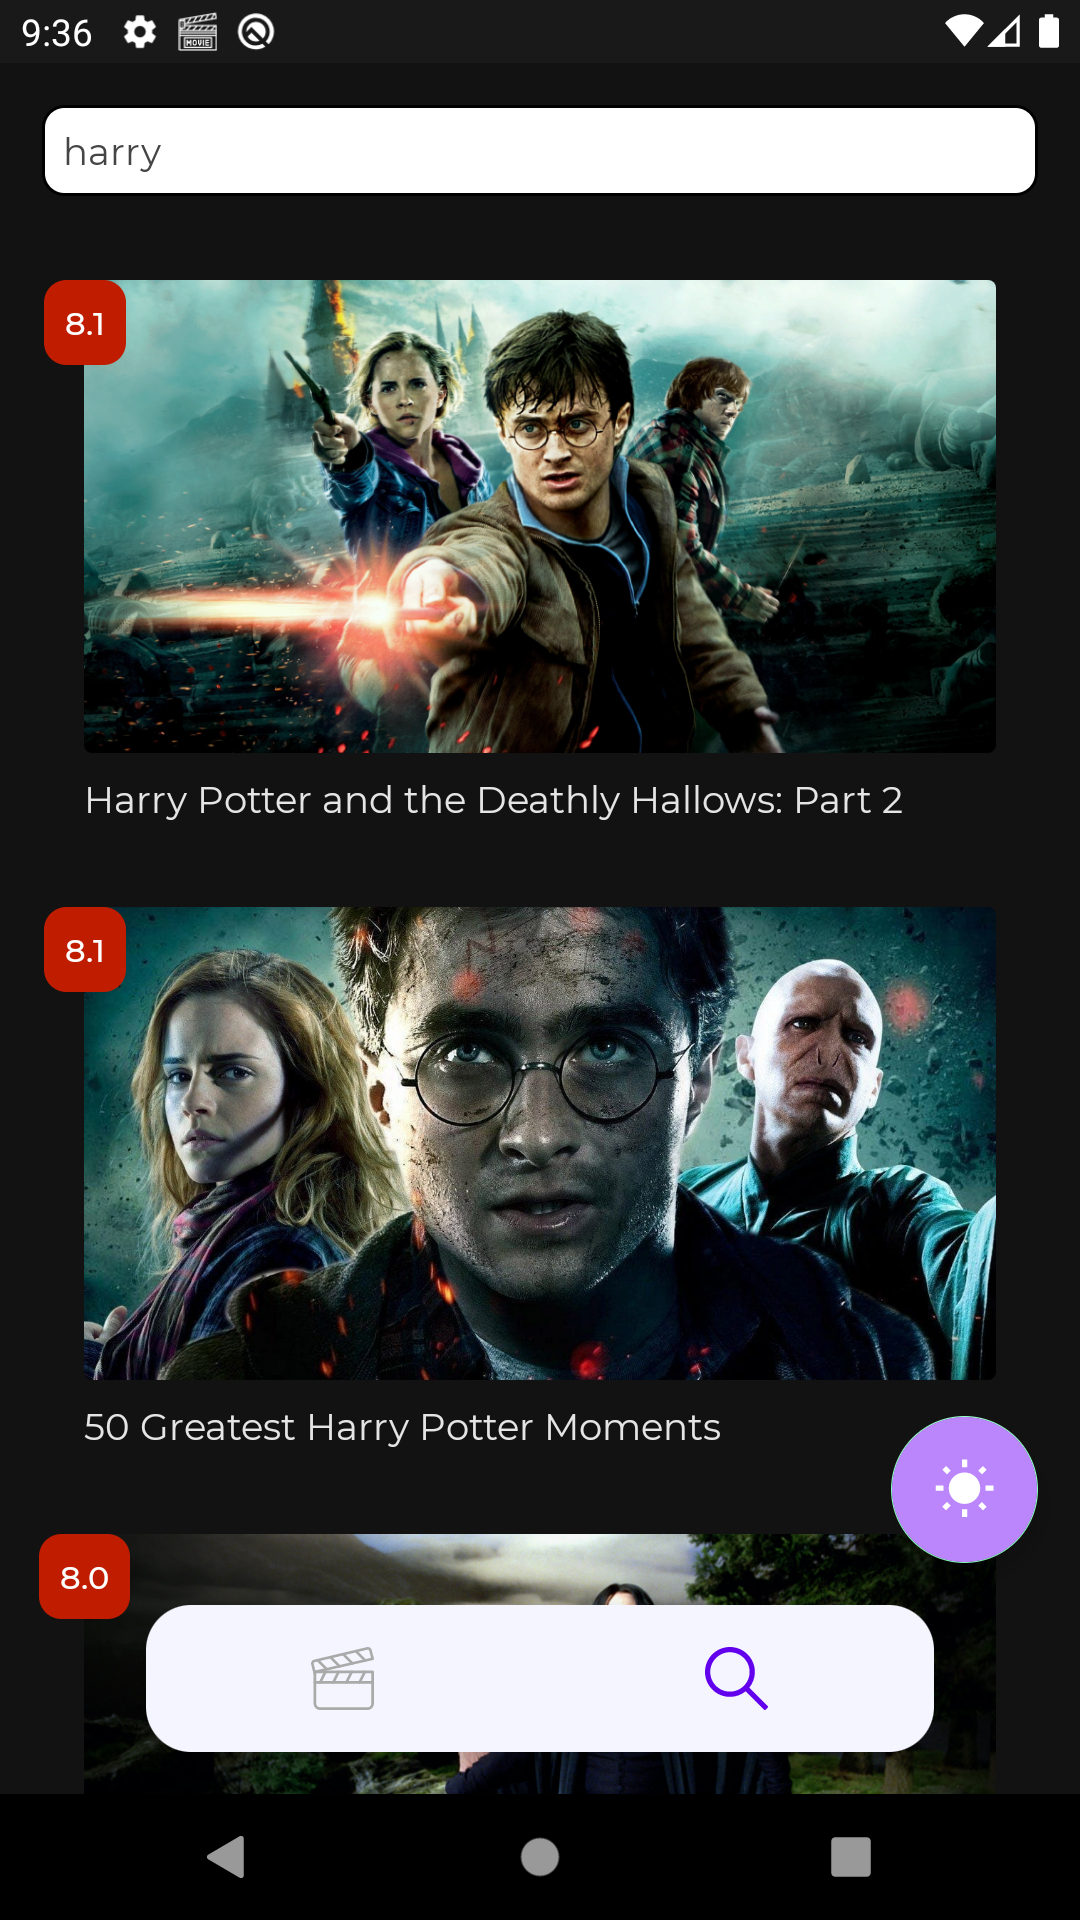
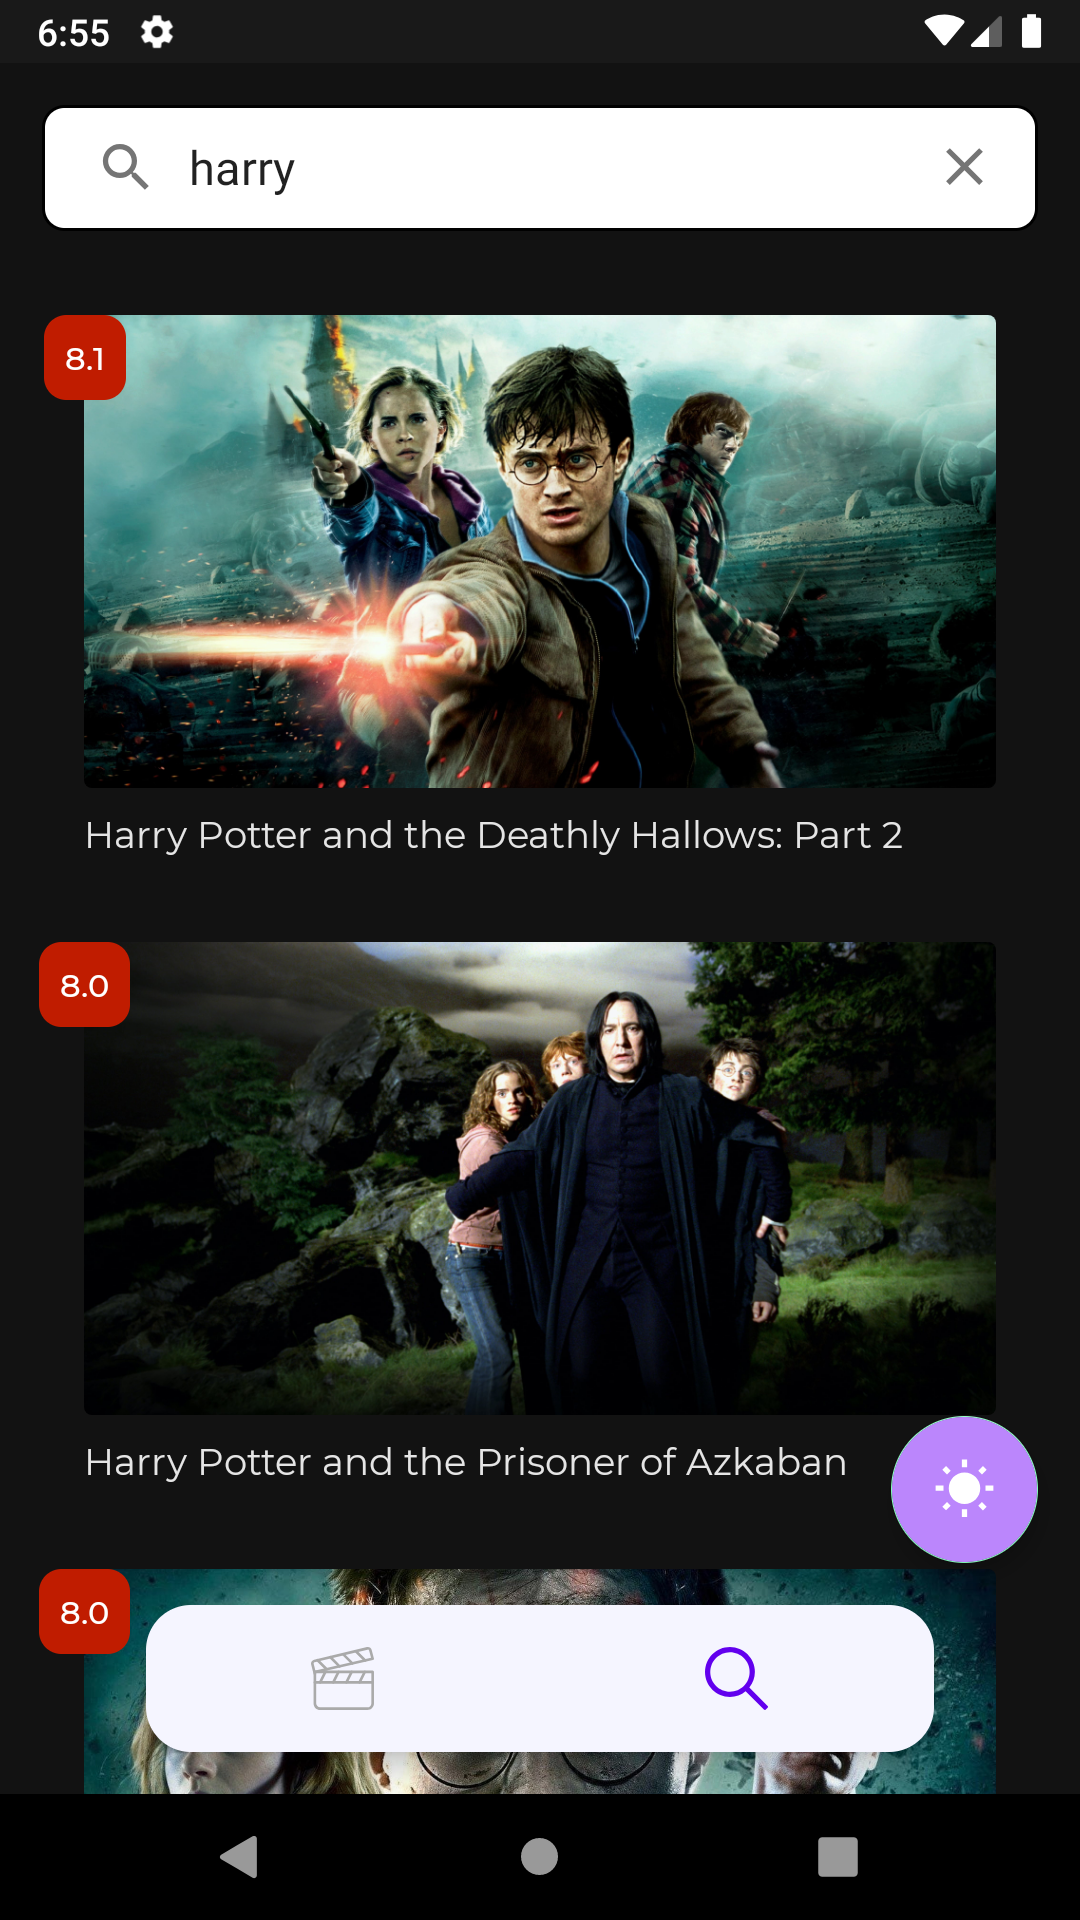
Replaced EditText with SearchView in fragment_search

diff --git a/common/src/main/java/com/caner/common/ext/EditText.kt b/common/src/main/java/com/caner/common/ext/EditText.kt
@@ -3,6 +3,7 @@ package com.caner.common.ext
 import android.text.Editable
 import android.text.TextWatcher
 import android.widget.EditText
+import androidx.appcompat.widget.SearchView
 
 inline fun EditText.afterTextChanged(crossinline afterTextChanged: (String) -> Unit) {
     this.addTextChangedListener(object : TextWatcher {
@@ -14,6 +15,19 @@ inline fun EditText.afterTextChanged(crossinline afterTextChanged: (String) -> U
 
         override fun afterTextChanged(editable: Editable?) {
             afterTextChanged(editable.toString())
+        }
+    })
+}
+
+inline fun SearchView.afterTextChanged(crossinline afterTextChanged: (String) -> Unit) {
+    this.setOnQueryTextListener(object : SearchView.OnQueryTextListener {
+        override fun onQueryTextSubmit(query: String?): Boolean {
+            return false
+        }
+
+        override fun onQueryTextChange(newText: String?): Boolean {
+            afterTextChanged(newText!!)
+            return false
         }
     })
 }
